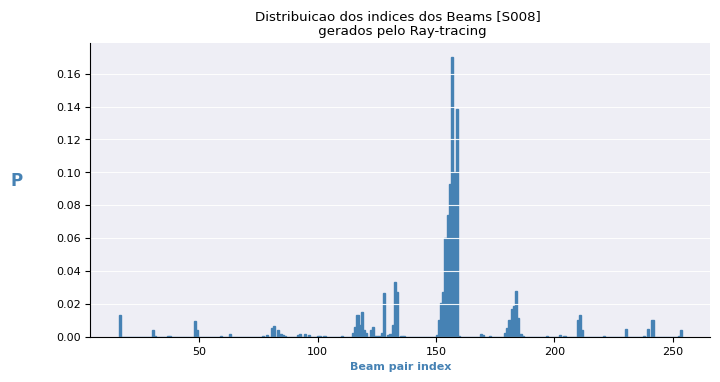
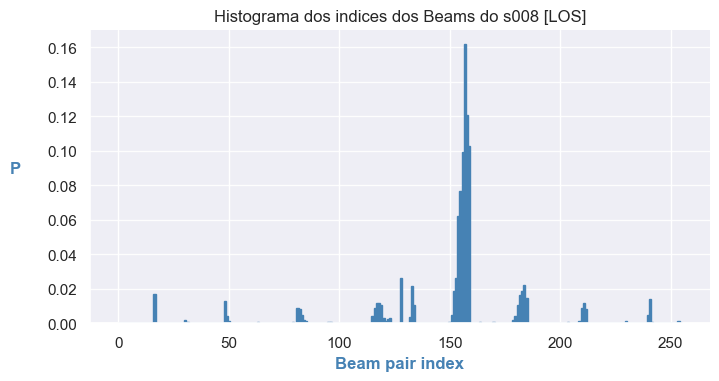
🎨 Analise das classes

diff --git a/code/analyse_s008.py b/code/analyse_s008.py
@@ -1,12 +1,12 @@
 import numpy as np
 import csv
-import seaborn as sns
 import pandas as pd
 import mimo_best_beams
 import matplotlib.pyplot as plt
 
 import seaborn as sns
 import random
+import read_data as readData
 
 random.seed(0)
 
@@ -329,7 +329,7 @@ def plot_hist_prob_beam(beam, title):#, set, pp_folder, connection, x_label='ind
     plt.savefig(path+"histogram_s008_prob_all_Beams_combined.png", bbox_inches='tight')
     plt.show()
 
-def plot_histogram_beam(index_beam, title):#, user, color, connection, set, pp_folder, config):
+def plot_histogram_beam(index_beam, title, savefig=False, path=''):#, user, color, connection, set, pp_folder, config):
     color = 'blue'
     #print("Histograma dos indices dos Beams do ", user ," [" + connection + "] em config ", config , " \n usando dados de ",  set)
 
@@ -355,6 +355,8 @@ def plot_histogram_beam(index_beam, title):#, user, color, connection, set, pp_f
     # plot.fig.set_figheight(8)
     plt.subplots_adjust(right=0.786, bottom=0.155)
 
+    if savefig:
+        plt.savefig(path, transparent=False, dpi=300, bbox_inches='tight')
     #name = path + 'Histogram_dos_Beams_' + user + '_' + connection + '_' + set + '.png'
     #plt.savefig(name, transparent=False, dpi=300)
     plt.show()
@@ -666,13 +668,156 @@ def plot_beams_with_coord():
     g.figure.set_size_inches (7.5, 10.5)
     plt.savefig ('../analyses/tx_beam_distribution_with_position_s008.png', dpi=300, bbox_inches='tight')
 
+def plot_histogram_geral(LOS_data, NLOS_data, all_data,
+                         path_to_save, label_data, all_classes=False):
+    data3 = LOS_data ['index_beams']
+    data2 = NLOS_data ['index_beams']
+    data1 = all_data ['index_beams']
+
+
+    plt.figure (figsize=(10, 4))
+    labels = ['All', 'NLOS', 'LOS']
+    colors = ['#F9A59B', 'green', 'steelblue']
+    if all_classes:
+        plt.hist ([data1, data2, data3], bins=256, label=labels, color=colors, alpha=1)
+        plt.title ('Histograma dos indices dos Beams do dataset '+label_data, fontsize=14, fontweight='bold')
+        plt.xlabel ('Indices dos beams', fontsize=12)
+        plt.ylabel ('Frequência', fontsize=12)
+        plt.legend (title='Dados', fontsize=10, title_fontsize=12)
+        path = path_to_save + 'histogram_all_classes_by_set.png'
+        plt.savefig (path, dpi=300, bbox_inches='tight')
+    else:
+        plt.hist ([data1, data2, data3], bins=1, label=labels, color=colors, alpha=1)
+        plt.title ('Histograma dos indices dos Beams do dataset '+label_data, fontsize=14, fontweight='bold')
+        # plt.xlabel ('Valores', fontsize=12)
+        plt.ylabel ('Frequência', fontsize=12)
+        # plt.legend (title='Dados', fontsize=10, title_fontsize=12)
+        plt.xticks ([50, 120, 190], labels)
+        path = path_to_save + 'histogram_one_classe_by_set.png'
+        plt.savefig (path, dpi=300, bbox_inches='tight')
+
+    plt.show ()
+    plt.savefig(path, dpi=300, bbox_inches='tight')
+
+
+def do_hist_beams(LOS_data, NLOS_data, all_data, label_data):
+    path = '../analyses/index_beams/'+label_data+'/'
+
+    title = 'Distribuicao dos indices dos Beams do '+label_data+' [LOS]'
+    file_name = 'histogram_'+label_data+'_LOS.png'
+    path_to_save = path + file_name
+    #plot_histogram_beam (index_beam=LOS_data['index_beams'], title=title, savefig=True, path=path_to_save)
+
+    title = 'Distribuicao dos indices dos Beams do ' + label_data + ' [NLOS]'
+    file_name = 'histogram_' + label_data + '_NLOS.png'
+    path_to_save = path + file_name
+    #plot_histogram_beam(index_beam=NLOS_data['index_beams'], title=title, savefig=True, path=path_to_save)
+
+    title = 'Distribuicao dos indices dos Beams do ' + label_data + ' [ALL]'
+    file_name = 'histogram_' + label_data + '_ALL.png'
+    path_to_save = path + file_name
+    #plot_histogram_beam(index_beam=all_data['index_beams'], title=title, savefig=True, path=path_to_save)
+
+    plot_histogram_geral(LOS_data, NLOS_data, all_data, path, label_data)
+    a=0
+
+
+def plot_beams_in_histogram():
+    s008_data_LOS, s008_NLOS, s008_valid_data = readData.read_data_s008()
+    s009_data_LOS, s009_NLOS, s009_valid_data = readData.read_data_s009()
+
+    #do_hist_beams(s008_data_LOS, s008_NLOS, s008_valid_data, 's008')
+    do_hist_beams(s009_data_LOS, s009_NLOS, s009_valid_data, 's009')
+
+def statistics_index_beams(data_set, label_connection,label_dataset, path):
+
+    classes_frequency = 50
+    labels, counts = np.unique (data_set ['index_beams'].tolist (), return_counts=True)
+    data = {'index': labels, 'counts': counts}
+    df = pd.DataFrame (data)
+    df = df.sort_values (by='counts', ascending=False)
+    d = df[df['counts'] > classes_frequency]
+
+    print('Dataset:', label_dataset, 'Connection:', label_connection)
+    print(d[:20])
+    if label_connection =='ALL':
+        color = '#F9A59B'
+    if label_connection =='LOS':
+        color = 'steelblue'
+    if label_connection =='NLOS':
+        color = 'green'
+    plot = d.plot(kind='bar', x='index', y='counts', color= color, legend=False)
+    plot.figure.set_size_inches (10, 4)
+
+    plt.title ('Histograma dos índices com frequência maior a '+str(classes_frequency)+' \n do dataset '+label_dataset+' - '+label_connection,
+               fontsize=14, fontweight='bold')
+    plt.xlabel ('Índices dos beams', fontsize=12)
+    plt.savefig(path + 'Hist_classes_freq_'+str(classes_frequency)+'_'+label_dataset+'_'+label_connection+'.png', dpi=300, bbox_inches='tight')
+
+    d1 = df [df ['counts'] == 1] ['counts'].tolist ()
+    d2 = df [df ['counts'] == 2] ['counts'].tolist ()
+    d3 = df [df ['counts'] == 3] ['counts'].tolist ()
+    d4 = df [df ['counts'] == 4] ['counts'].tolist ()
+    d5 = df [df ['counts'] == 5] ['counts'].tolist ()
+    d6 = df [df ['counts'] == 6] ['counts'].tolist ()
+    d7 = df [df ['counts'] == 7] ['counts'].tolist ()
+    d8 = df [df ['counts'] == 8] ['counts'].tolist ()
+    d9 = df [df ['counts'] == 9] ['counts'].tolist ()
+    d10 = df [df ['counts'] == 10] ['counts'].tolist ()
+    freq = [1, 2, 3, 4, 5, 6, 7, 8, 9, 10]
+    classes_with_freq_less_10 = [len (d1), len (d2), len (d3), len (d4), len (d5),
+                                 len (d6), len (d7), len (d8), len (d9), len (d10)]
+    plt.clf()
+    plt.bar (freq, classes_with_freq_less_10, color=color, label=label_connection)
+    plt.xticks(freq)
+    for i in range(len(classes_with_freq_less_10)):
+        plt.text(i + 1, classes_with_freq_less_10[i], str(classes_with_freq_less_10 [i]), ha='center', va='bottom')
+    plt.xlabel('Frequência')
+    plt.ylabel('Número de classes')
+    plt.legend()
+
+    #plt.show()
+    plt.savefig(
+        path + 'Hist_classes_freq_less' + str (len(freq)) + '_' + label_dataset + '_' + label_connection + '.png',
+        dpi=300, bbox_inches='tight')
+
+
+
+    a=0
+def stats_index_beams():
+    s008_data_LOS, s008_NLOS, s008_valid_data = readData.read_data_s008 ()
+    s009_data_LOS, s009_NLOS, s009_valid_data = readData.read_data_s009 ()
+
+
+    path = '../analyses/index_beams/'
+    connection_type = ['ALL', 'LOS', 'NLOS']
+    data_set = 's008'
+    s008 = [s008_valid_data, s008_data_LOS, s008_NLOS]
+    for i in range (3):
+        statistics_index_beams (data_set=s008 [i],
+                                label_connection=connection_type [i],
+                                label_dataset=data_set,
+                                path=path + data_set + '/')
+
+    data_set = 's009'
+    s009 = [s009_valid_data, s009_data_LOS, s009_NLOS]
+    for i in range(3):
+        statistics_index_beams(data_set=s009[i],
+                               label_connection=connection_type[i],
+                               label_dataset=data_set,
+                               path=path + data_set + '/')
+
+
+
+
+
 
 #compare_beamoutput_matrices_from_RT()
 #generated_beams_output_from_ray_tracing()
 #stats_index_beams_article()
 #plot_distribution_of_beams()
-plot_beams_with_coord()
 
+stats_index_beams()
 
 
 

diff --git a/code/read_data.py b/code/read_data.py
@@ -1,0 +1,70 @@
+import pandas as pd
+import numpy as np
+
+
+
+
+def read_beams_raymobtime(num_antennas_rx, path_of_data):
+
+    data_path = path_of_data
+    beams = np.load(data_path)['output_classification']
+
+    best_beam_index = []
+    for sample in range(beams.shape[0]):
+        best_beam_index.append(np.argmax(beams[sample, :]))
+
+    beam_index_rx = np.array(best_beam_index)
+
+    tx_index = np.zeros((beams.shape[0]), dtype=int)
+    rx_index = np.zeros((beams.shape[0]), dtype=int)
+
+    for sample in range(len(beam_index_rx)):
+        index_tx = best_beam_index[sample] // int(num_antennas_rx)
+        index_rx = best_beam_index[sample] % int(num_antennas_rx)
+        tx_index[sample] = index_tx
+        rx_index[sample] = index_rx
+
+    return tx_index, rx_index, best_beam_index
+
+def read_data_s009():
+    filename = '../data/coord/CoordVehiclesRxPerScene_s009.csv'
+    data = pd.read_csv (filename)
+    valid_data = data [data ['Val'] == 'V']
+
+    path = '../data/beams_output/beam_output_baseline_raymobtime_s009/beams_output_test.npz'
+    tx_index, rx_index, best_beam_index = read_beams_raymobtime (num_antennas_rx=8, path_of_data=path)
+
+    valid_data.insert (6, 'index_beams', best_beam_index)
+    valid_data.insert (7, 'tx_index', tx_index)
+    valid_data.insert (8, 'rx_index', rx_index)
+
+    data_LOS = valid_data[valid_data['LOS'] == 'LOS=1']
+    data_NLOS = valid_data[valid_data['LOS'] == 'LOS=0']
+
+    return data_LOS, data_NLOS, valid_data
+
+def read_data_s008():
+    filename = '../data/coord/CoordVehiclesRxPerScene_s008.csv'
+    limit_ep_train = 1564
+    data = pd.read_csv (filename)
+    valid_data = data[data['Val'] == 'V']
+    #train_data = valid_data [valid_data ['EpisodeID'] <= limit_ep_train]
+
+    path = '../data/beams_output/beam_output_baseline_raymobtime_s008/beams_output_train.npz'
+    tx_index_train, rx_index_train, best_beam_index_train = read_beams_raymobtime (num_antennas_rx=8, path_of_data=path)
+
+    path = '../data/beams_output/beam_output_baseline_raymobtime_s008/beams_output_validation.npz'
+    tx_index_val, rx_index_val, best_beam_index_val = read_beams_raymobtime (num_antennas_rx=8, path_of_data=path)
+
+    tx_index = np.concatenate ((tx_index_train, tx_index_val), axis=0)
+    rx_index = np.concatenate ((rx_index_train, rx_index_val), axis=0)
+    best_beam_index = np.concatenate ((best_beam_index_train, best_beam_index_val), axis=0)
+
+    valid_data.insert (6, 'index_beams', best_beam_index)
+    valid_data.insert (7, 'tx_index', tx_index)
+    valid_data.insert (8, 'rx_index', rx_index)
+
+    data_LOS = valid_data [valid_data ['LOS'] == 'LOS=1']
+    NLOS = valid_data [valid_data ['LOS'] == 'LOS=0']
+
+    return data_LOS, NLOS, valid_data

diff --git a/code/beam_selection_LOS_NLOS.py b/code/beam_selection_LOS_NLOS.py
@@ -9,6 +9,7 @@ import pre_process_lidar
 import wisardpkg as wp
 from operator import itemgetter
 from matplotlib.gridspec import GridSpec
+import read_data as read_data
 
 def read_beams_raymobtime(num_antennas_rx, path_of_data):
 
@@ -170,8 +171,9 @@ def Thermomether_coord_x_y_unbalanced_for_s009(escala, all_info_coord_val, data)
     return encondig_coord
 
 def get_coord_preprocess(connection_type, preprocess_resolution):
-    train_data_LOS_s009, train_data_NLOS_s009, valid_data_s009 = read_data_s009 ()
-    train_data_LOS_s008, train_data_NLOS_s008, valid_data_s008 = read_data_s008 ()
+    train_data_LOS_s009, train_data_NLOS_s009, valid_data_s009 = read_data.read_data_s009()
+    train_data_LOS_s008, train_data_NLOS_s008, valid_data_s008 = read_data.read_data_s008()
+
 
     if connection_type == 'LOS':
         data_train = train_data_LOS_s008
@@ -805,7 +807,7 @@ def plot_all_performance_WiSARD(inverter_dataset=False):
 
 
 
-beam_selection_LOS_NLOS_inverter_dataset(input_type='lidar', connection_type='LOS')
+beam_selection_LOS_NLOS_inverter_dataset(input_type='coord', connection_type='LOS')
 beam_selection_LOS_NLOS_inverter_dataset(input_type='lidar', connection_type='NLOS')
 beam_selection_LOS_NLOS_inverter_dataset(input_type='coord', connection_type='LOS')
 beam_selection_LOS_NLOS_inverter_dataset(input_type='coord', connection_type='NLOS')
